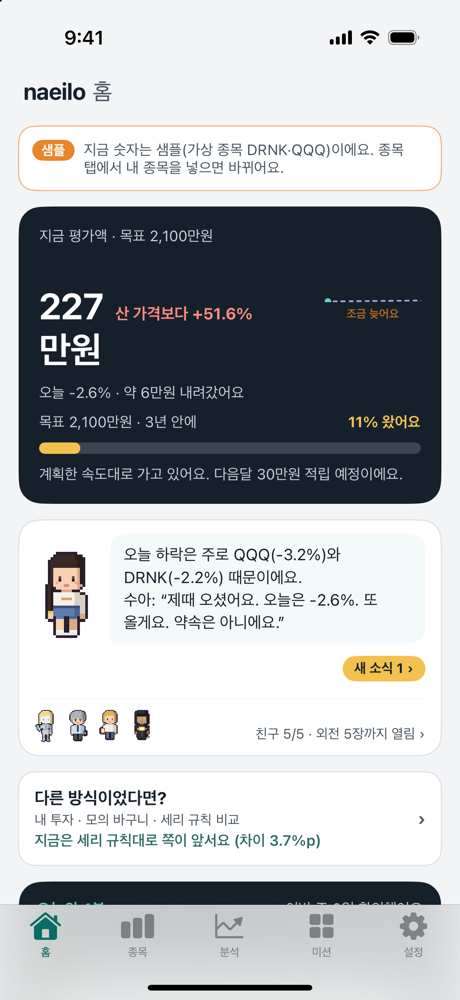
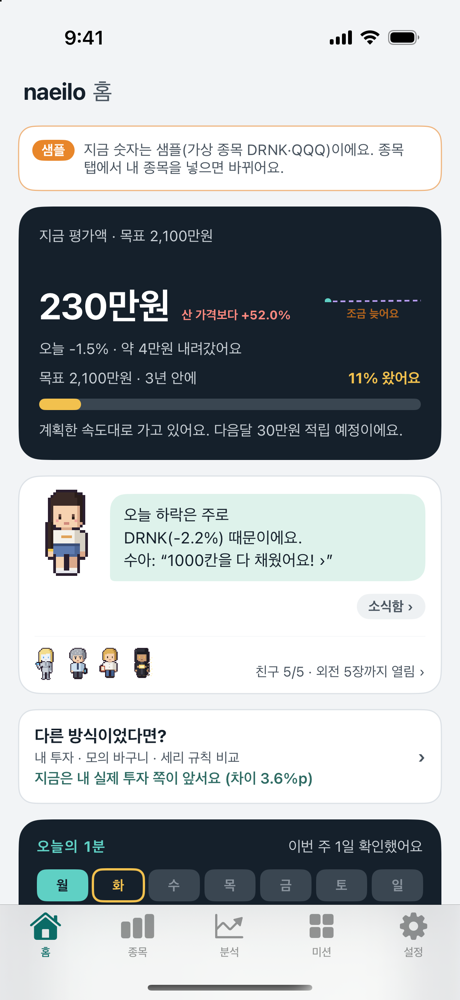
앱 홈: 평가액 금액을 한 줄로 고정, 입구 첫 앱 화면 다시 찍음

diff --git a/index.html b/index.html
@@ -80,7 +80,7 @@
     <h2>앱을 열면, 인물이 먼저 말을 걸어요</h2>
     <p class="muted">세리·시오·선배·이르·수아. 다섯 사람이 오늘 숫자를 각자 말투로 전해 줘요. 사라·팔라는 말은 하지 않아요.</p>
     <div class="rail">
-      <figure><div class="phone"><img src="img/app-home.png?v=2" alt="naeilo 앱 홈 화면. 수아가 오늘 숫자를 말해 줘요" loading="lazy"></div><figcaption>홈: 오늘 숫자와 인물의 한마디</figcaption></figure>
+      <figure><div class="phone"><img src="img/app-home.png?v=3" alt="naeilo 앱 홈 화면. 수아가 오늘 숫자를 말해 줘요" loading="lazy"></div><figcaption>홈: 오늘 숫자와 인물의 한마디</figcaption></figure>
       <figure><div class="phone"><img src="img/app-people.png?v=2" alt="쉼터 화면. 다섯 친구를 모두 만났어요" loading="lazy"></div><figcaption>쉼터: 꾸준히 쓰면 한 명씩 만나요</figcaption></figure>
       <figure><div class="phone"><img src="img/app-settings.png?v=2" alt="설정 화면. 내 오픈 API 키로 시세를 받는 중이에요" loading="lazy"></div><figcaption>설정: 내 오픈 API 키로 시세 받기</figcaption></figure>
     </div>

diff --git a/ios-app/Naeilo/Views/HomeView.swift b/ios-app/Naeilo/Views/HomeView.swift
@@ -57,8 +57,10 @@ struct HomeView: View {
                 .appFont(13)
             HStack(alignment: .firstTextBaseline, spacing: 10) {
                 Text(AppModel.eok(now * 1e4)).appFont(32, .bold).tracking(-0.5)
+                    .lineLimit(1).fixedSize()   // 금액은 꺾지 않고 한 줄로
                 if value && m.cost > 0 {
                     Text("산 가격보다 " + AppModel.sgn(m.ret)).appFont(14, .bold).foregroundStyle(m.ret >= 0 ? Color(hex: 0xFF8A80) : Color(hex: 0x8CC4F2))
+                        .lineLimit(1).minimumScaleFactor(0.7)
                 }
                 Spacer(minLength: 8)
                 MiniPath()
@@ -97,6 +99,7 @@ struct HomeView: View {
             Text("지금 평가액 · 들어간 돈 \(AppModel.man(m.cost))").appFont(13).foregroundStyle(Color(hex: 0xC9D0D6))
             HStack(alignment: .firstTextBaseline, spacing: 10) {
                 Text(AppModel.man(m.total)).appFont(32, .bold).tracking(-0.5)
+                    .lineLimit(1).fixedSize()
                 Text(AppModel.sgn(m.ret)).appFont(16, .bold)
                     .foregroundStyle(m.ret >= 0 ? Color(hex: 0xFF8A80) : Color(hex: 0x8CC4F2))
                 Spacer(minLength: 8)

diff --git a/docs/HANDOFF.md b/docs/HANDOFF.md
@@ -13,7 +13,7 @@
 - 비밀값은 저장소에 쓰지 않는다. 사용자에게 토큰·개발 설정을 묻지 않는다.
 
 ## 지금 상태 (2026-10-15)
-- **naeilo.com/** = 입구 페이지(루트 `index.html`·`entry.js`·`entry.css`). 헤드라인 "귀여운 주식 위젯". 맨 위 아이폰 홈 화면 속 수아(자산 추이)·시오(본전 진행) 위젯을 HTML로 그림(금액 가림, 앱 `CharWidgets.swift` 색·배치, 그림 `img/char/`). 수아·시오는 아이폰 **밖**에 서서 말풍선으로 말함(대사는 앱 `lines_ko.json` widget.down에서 고른 9개씩, 열 때마다 하나). 아이폰 상단 시계는 지금 시각(#232). 그 아래 앱 화면 3장(`img/app-home·people·settings.png`, 시뮬레이터 9:41. 세 번째는 미션 대신 오픈 API 연결 후 설정 화면, `toss_user`와 친구 5명 열림(`-devAllTest YES`)으로 찍어 첫 장 홈과 목표 2,100만원·함께할 인물 수아가 같음). 하단 "직접 해보기"는 아이폰 틀 속 목표일 전망: 예시 자산 1,000만·연 7%·흔들림 18% 로그정규 닫힌 식, 목표일 막대를 밀면 가운데 금액·10번 중 9번 범위·목표 1,500만 확률이 바뀜(앱 몬테카를로가 아니라 숫자 기준이 다름, 예시라서 둠). 종목+수량 입력은 뺌.
+- **naeilo.com/** = 입구 페이지(루트 `index.html`·`entry.js`·`entry.css`). 헤드라인 "귀여운 주식 위젯". 맨 위 아이폰 홈 화면 속 수아(자산 추이)·시오(본전 진행) 위젯을 HTML로 그림(금액 가림, 앱 `CharWidgets.swift` 색·배치, 그림 `img/char/`). 수아·시오는 아이폰 **밖**에 서서 말풍선으로 말함(대사는 앱 `lines_ko.json` widget.down에서 고른 9개씩, 열 때마다 하나). 아이폰 상단 시계는 지금 시각(#232). 그 아래 앱 화면 3장(`img/app-home·people·settings.png`, 시뮬레이터 9:41. 세 번째는 미션 대신 오픈 API 연결 후 설정 화면, `toss_user`와 친구 5명 열림(`-devAllTest YES`)으로 찍어 첫 장 홈과 목표 2,100만원·함께할 인물 수아가 같음. 홈 금액은 한 줄 고정). 하단 "직접 해보기"는 아이폰 틀 속 목표일 전망: 예시 자산 1,000만·연 7%·흔들림 18% 로그정규 닫힌 식, 목표일 막대를 밀면 가운데 금액·10번 중 9번 범위·목표 1,500만 확률이 바뀜(앱 몬테카를로가 아니라 숫자 기준이 다름, 예시라서 둠). 종목+수량 입력은 뺌.
 - **naeilo.com/web/** = 예전 계산기 웹. 지우지 않고 `noindex`(CI 도구가 `app.js` 원문을, parity가 `model.js`를 씀). 화면 parity는 멈춤(입구 결정).
 - 앱 받기 버튼 = **출시 알림 신청**(워커 `/notify`, KV `n:<이메일 해시>`, 이메일·날짜만, 목록 `/notify/list`는 ADMIN_KEY). 개인정보처리방침에 한 줄 있음.
 - 앱(iOS, TestFlight 내부): 분석 허브 시안 B, 국내 개별 종목, 미션 탭 두 페이지 등. 앱에서 PC 웹으로 보내던 안내는 지움, 기기 동기화 메뉴는 설정에서 뺐고 그 자리에 '토스증권 오픈 API'(2026-10-15, 예전 이름 '내 토스 키'). 설정 맨 위는 오픈 API 카드(2026-10-16: 연결 상태 한 줄 + 내 폰·서버·토스 작은 띠, 연결 전엔 '연결하기' 버튼), 큰 목표 카드는 '내 목표' 작은 줄 두 개(목표 고치기 · 루트 바꾸기)로 줄였다.
